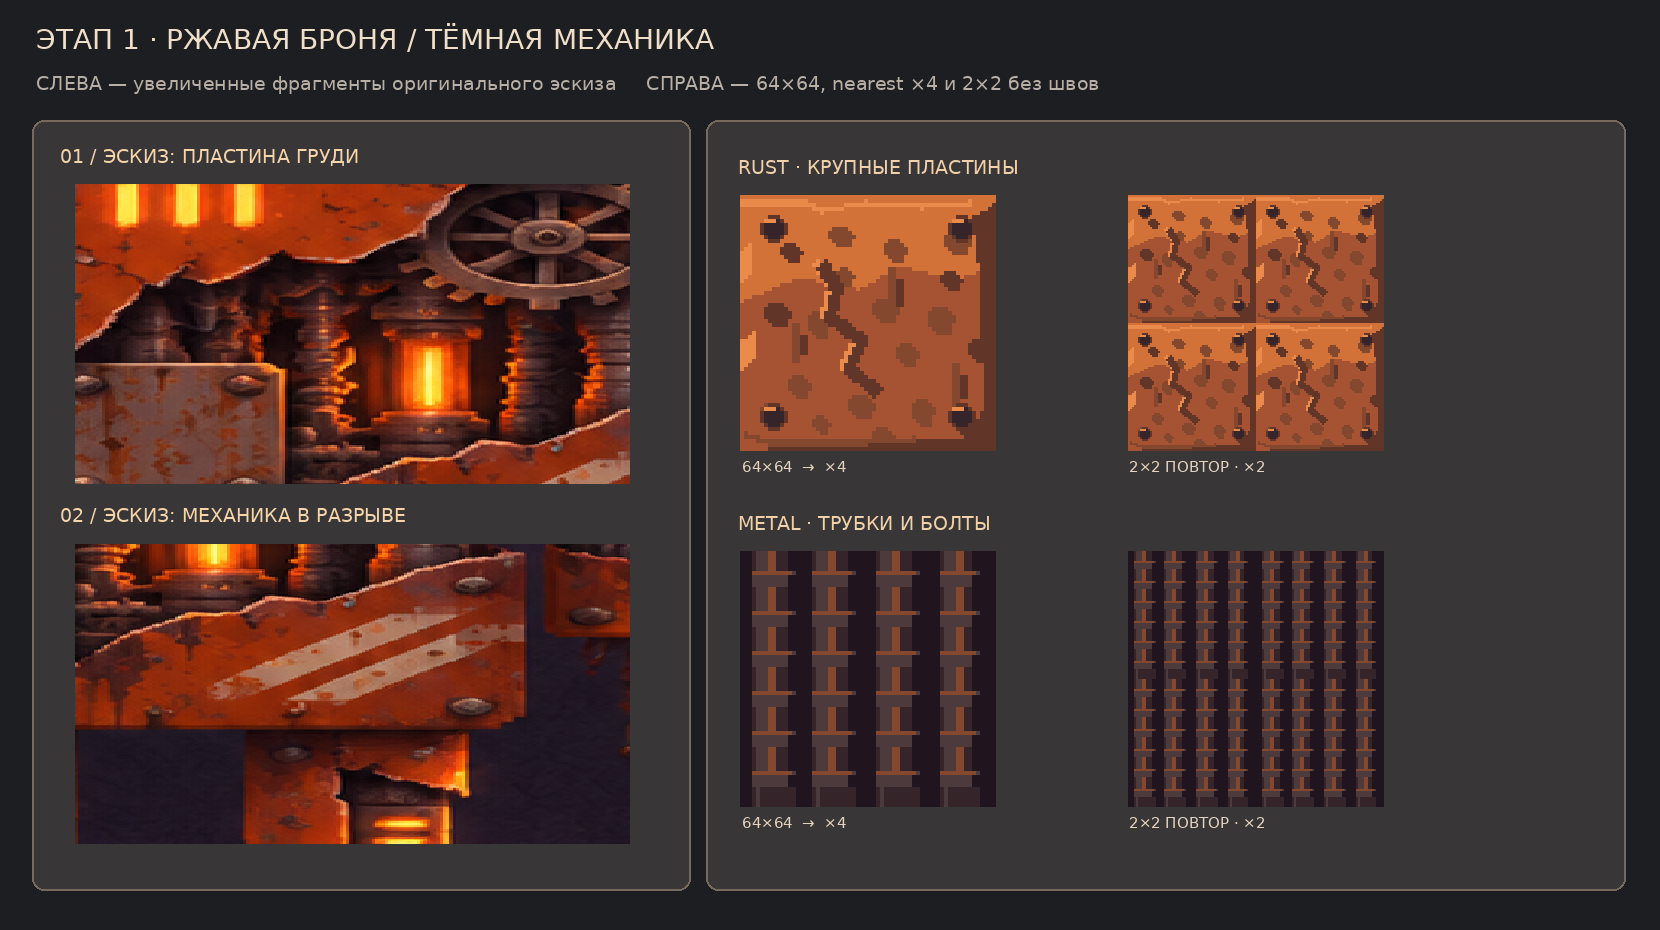
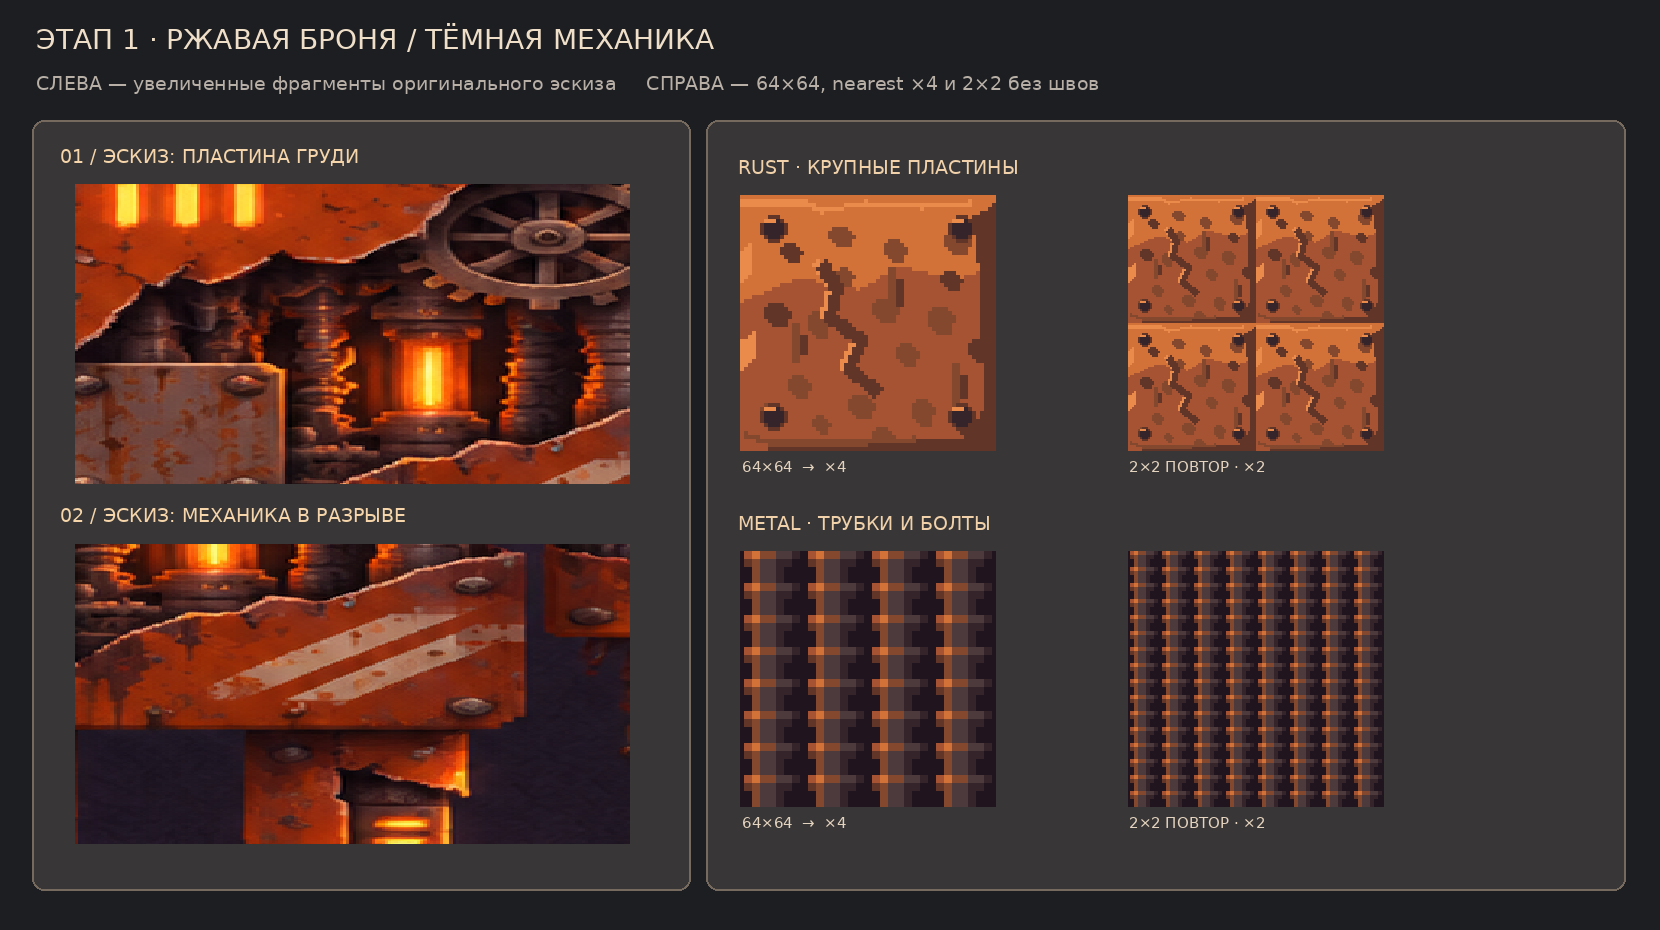
skin stage 1: metal as stacked ribbed ring-cylinders (K2 fix by Claude)

Changed region(s): [[0.6759, 0.5925, 0.8295, 0.8731], [0.4301, 0.5925, 0.5837, 0.8731]]

diff --git a/scripts/skins/render-skin-stage-one.py b/scripts/skins/render-skin-stage-one.py
@@ -41,19 +41,20 @@ for x,y in ((8,8),(55,8),(8,55),(55,55)):
  d.line([(x-2,y-2),(x,y-2)],fill=C["#eb8b4b"],width=1)
 metal=Image.new("RGBA",(64,64),C["#20141e"])
 m=ImageDraw.Draw(metal)
-# Four close-set ribbed vertical piston cylinders; gaps are deep black.
-for x,w in ((3,12),(18,12),(34,12),(50,11)):
- m.rectangle((x,0,x+w,63),fill=C["#35242a"])
- m.rectangle((x+1,0,x+3,63),fill=C["#4d3a3c"])
- m.rectangle((x+4,0,x+5,63),fill=C["#83482d"])
- m.rectangle((x+w-3,0,x+w,63),fill=C["#20141e"])
- # Repeating horizontal collars only inside each cylinder, never across gaps.
- for y in (5,15,25,35,45,55):
-  m.rectangle((x,y,x+w-2,y+3),fill=C["#4d3a3c"])
-  m.line([(x,y),(x+w-3,y)],fill=C["#83482d"],width=1)
-  m.rectangle((x+w-3,y+1,x+w,y+4),fill=C["#20141e"])
- # Heavy dark piston socket at the base.
- m.rectangle((x+2,59,x+w-2,63),fill=C["#35242a"])
+# Four close-set ribbed piston cylinders built as stacks of rounded rings
+# (sketch: "stack of rings"), lit from the left, shadowed right, black gaps.
+def band(y0,y1,x,cols):
+ cx=x
+ for col,w in cols:
+  m.rectangle((cx,y0,cx+w-1,y1),fill=C[col]); cx+=w
+for x in (1,17,33,49):
+ for y in range(0,64,8):
+  # neck between rings: narrower core, 4 rows
+  band(y+4,y+7,x+2,(("#83482d",2),("#4d3a3c",4),("#35242a",2),("#20141e",2)))
+  # ring top: lit rim, full 14 px width
+  band(y,y+1,x,(("#a65333",2),("#d27238",2),("#83482d",4),("#4d3a3c",4),("#35242a",2)))
+  # ring underside: dark curve
+  band(y+2,y+3,x,(("#613528",2),("#83482d",2),("#4d3a3c",4),("#35242a",4),("#20141e",2)))
 root.joinpath("textures").mkdir(exist_ok=True)
 rust.save(root/"textures/rust.png",optimize=True)
 metal.save(root/"textures/metal.png",optimize=True)
